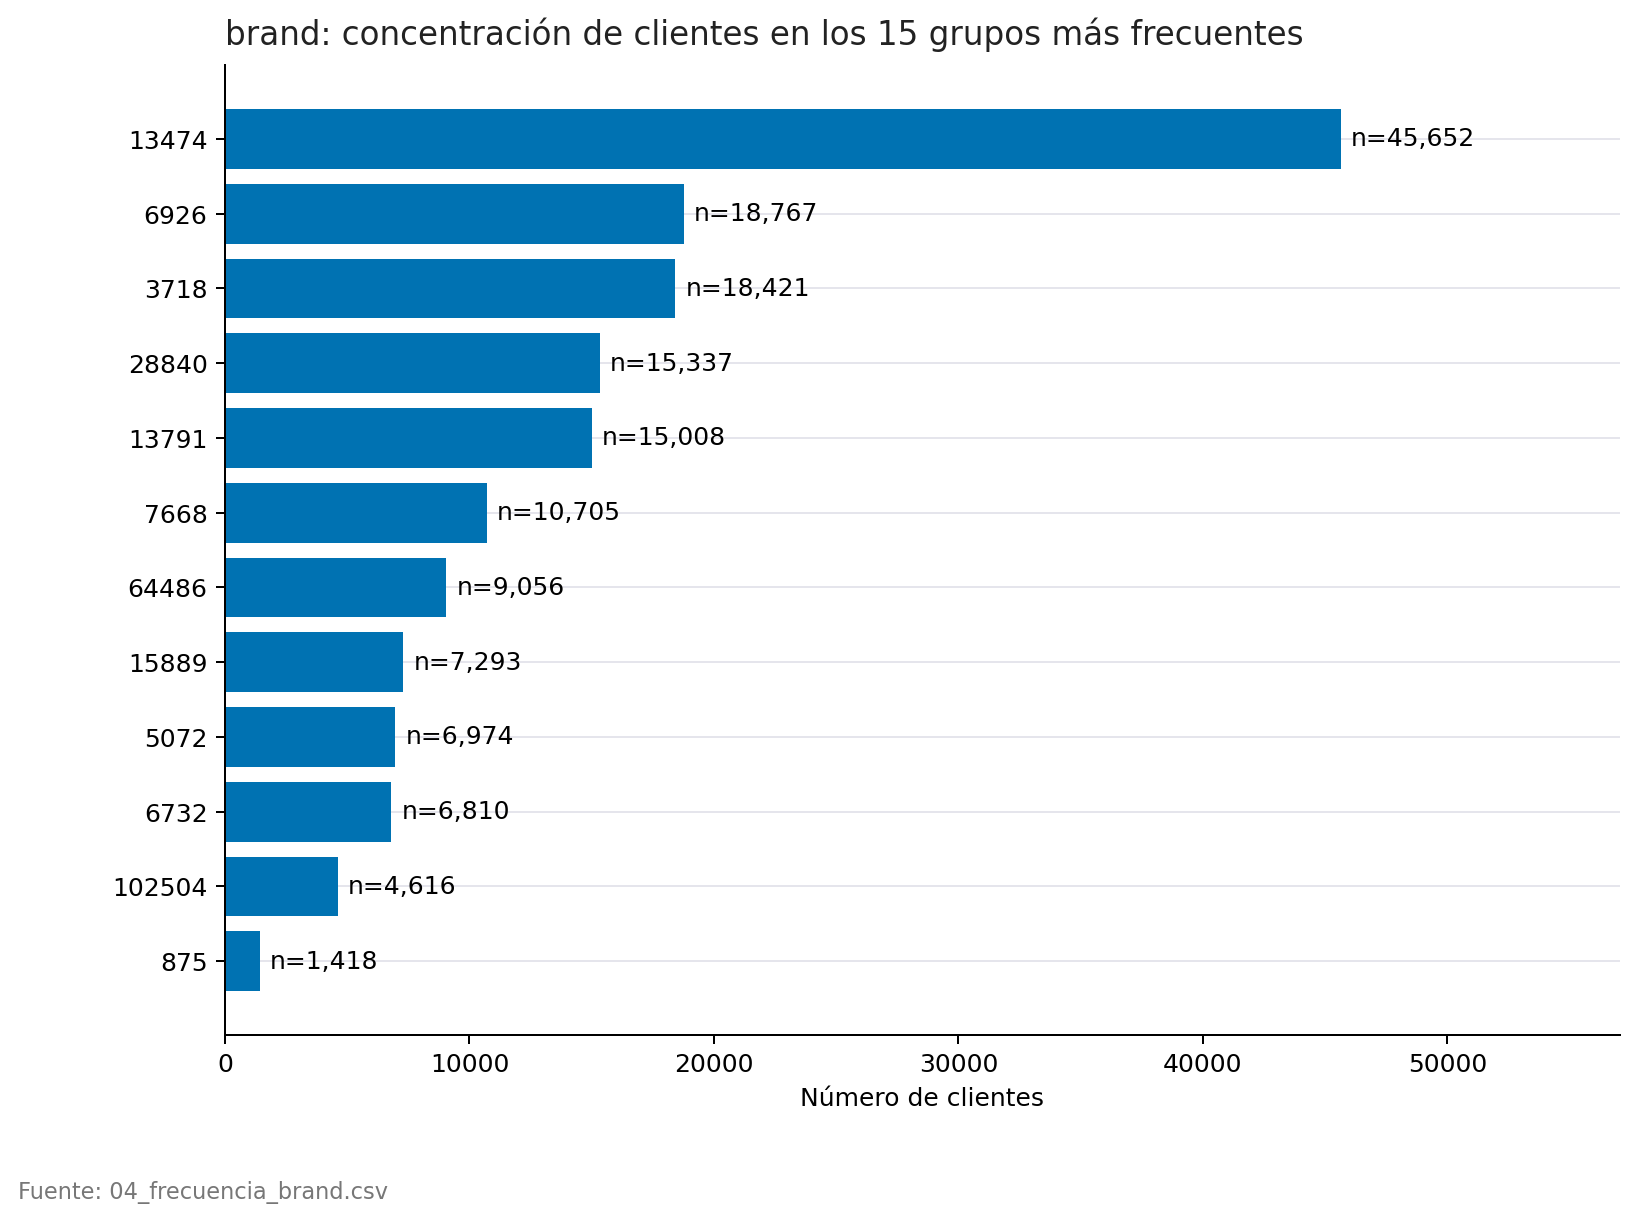
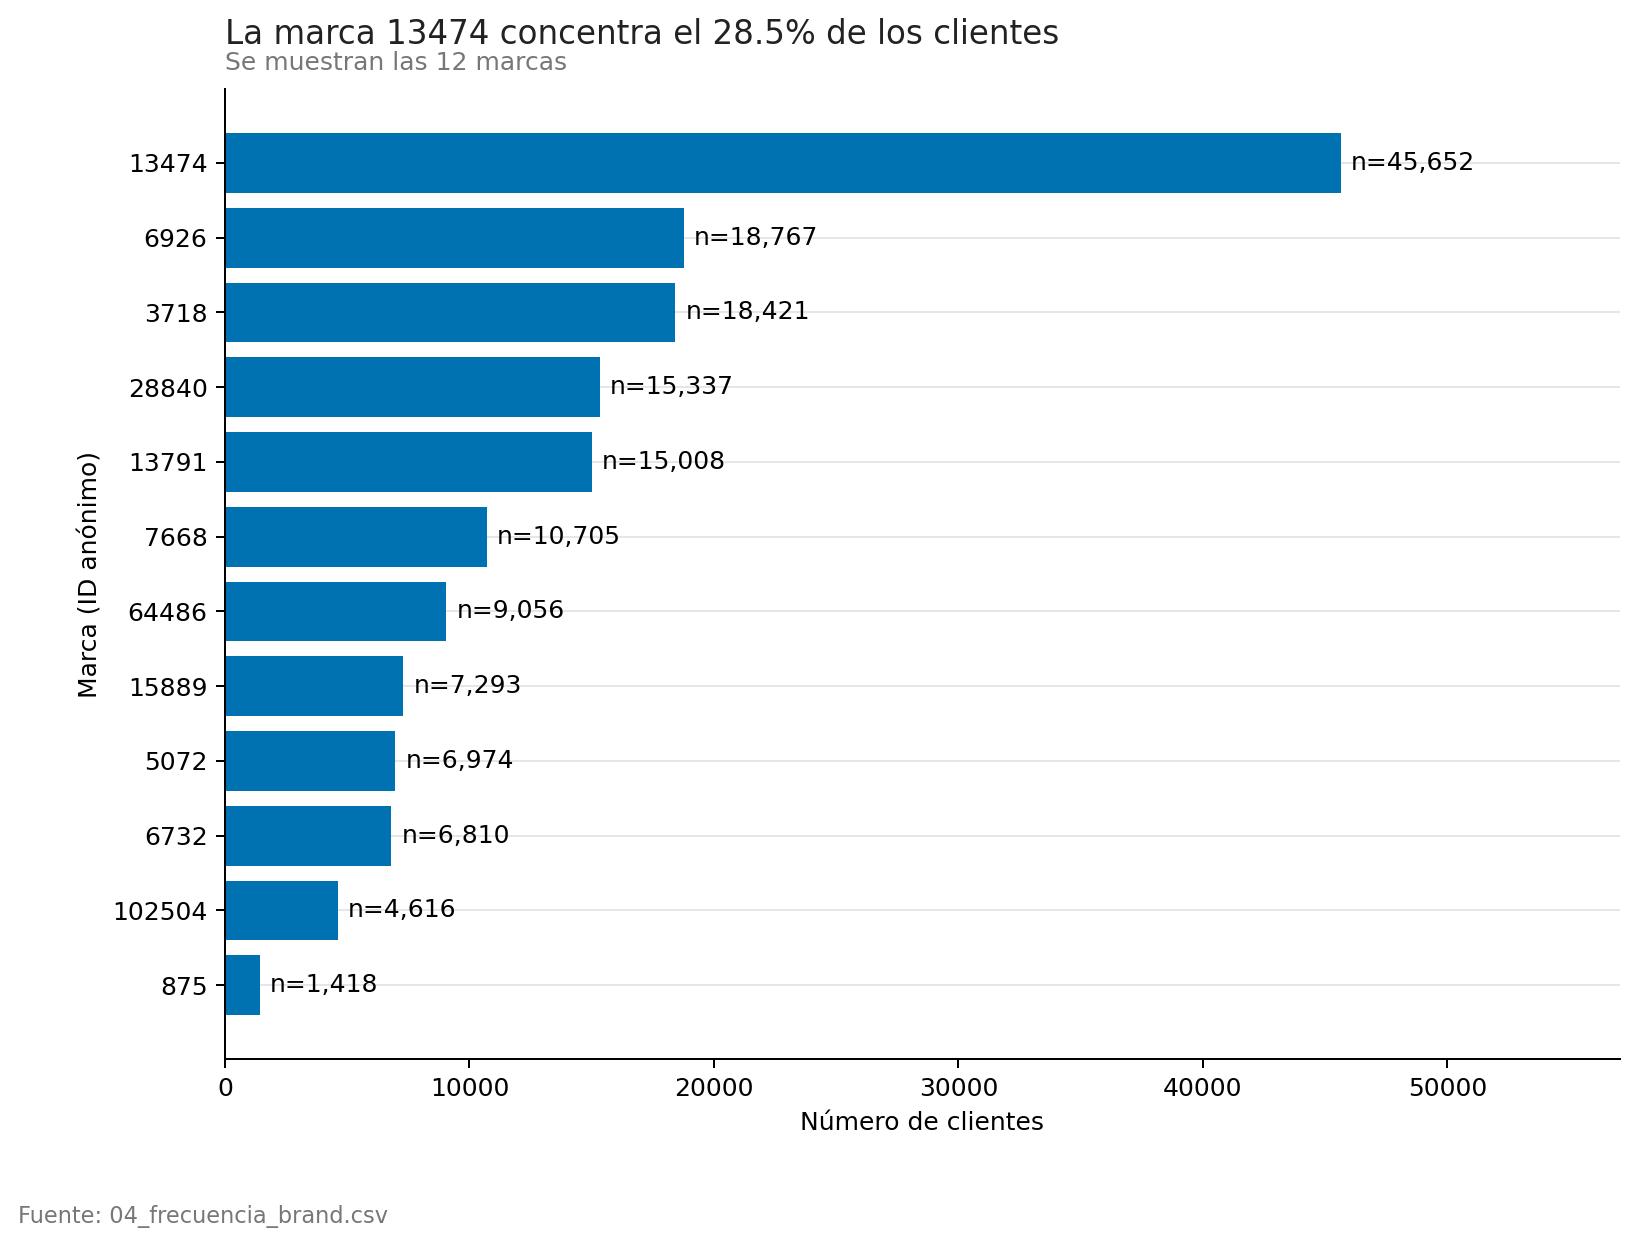
[UPDATE] figuras del EDA categorico ordenadas y con titulos de conclusion

diff --git a/app/rehacer_figuras_eda.py b/app/rehacer_figuras_eda.py
@@ -15,34 +15,62 @@ RAIZ = Path(__file__).resolve().parents[1]
 sys.path.insert(0, str(RAIZ / "src"))
 from estilo_graficos import AZUL, BERMELLON, GRIS, estilo_matplotlib
 
+NOMBRES = {"chain": "cadena", "category": "categoría", "brand": "marca", "company": "compañía", "market": "mercado"}
+PLURALES = {"chain": "cadenas", "category": "categorías", "brand": "marcas", "company": "compañías", "market": "mercados"}
+# Los rangos de descuento tienen orden propio: se grafican de menor a mayor valor, no por tasa.
+ORDEN_OFERTA = ["<= 1.00", "1.00–1.50", "1.50–2.00", "> 2.00"]
+ETIQUETAS_OFERTA = {"<= 1.00": "Hasta 1.00", "1.00–1.50": "1.00 a 1.50", "1.50–2.00": "1.50 a 2.00", "> 2.00": "Más de 2.00"}
+
 def main():
     tablas = RAIZ / "results/tables"
     figuras = RAIZ / "results/figures"
     global_ = pd.read_csv(RAIZ / "data/processed/dataset_modelo.csv", usecols=["repeater"]).repeater.mean()
     for dimension in ["chain", "category", "brand", "company", "market"]:
-        tabla = pd.read_csv(tablas / f"04_frecuencia_{dimension}.csv").nlargest(15, "frecuencia").sort_values("frecuencia")
+        completa = pd.read_csv(tablas / f"04_frecuencia_{dimension}.csv")
+        tabla = completa.nlargest(15, "frecuencia").sort_values("frecuencia")
+        fila_mayor = completa.frecuencia.idxmax()
+        grupo_mayor, proporcion_mayor = completa.grupo.loc[fila_mayor], completa.proporcion.loc[fila_mayor]
         fig, ax = plt.subplots(figsize=(10, 7))
         ax.barh(tabla.grupo.astype(str), tabla.frecuencia, color=AZUL)
         ax.bar_label(ax.containers[0], labels=[f"n={n:,}" for n in tabla.frecuencia], padding=4)
         ax.set_xlim(0, tabla.frecuencia.max()*1.25)
         ax.set_xlabel("Número de clientes")
-        estilo_matplotlib(ax, f"{dimension}: concentración de clientes en los 15 grupos más frecuentes", fuente=f"04_frecuencia_{dimension}.csv")
+        ax.set_ylabel(f"{NOMBRES[dimension].capitalize()} (ID anónimo)")
+        alcance = (f"las {len(tabla)} {PLURALES[dimension]} con más clientes, de {len(completa)}"
+                   if len(completa) > len(tabla) else f"las {len(completa)} {PLURALES[dimension]}")
+        estilo_matplotlib(ax, f"La {NOMBRES[dimension]} {grupo_mayor} concentra el {proporcion_mayor:.1%} de los clientes",
+                          subtitulo=f"Se muestran {alcance}", fuente=f"04_frecuencia_{dimension}.csv")
         fig.savefig(figuras / f"04_frecuencia_{dimension}.png", dpi=180, bbox_inches="tight")
         plt.close(fig)
     for dimension in ["chain", "category", "offervalue"]:
-        tabla = pd.read_csv(tablas / f"04_tasa_recompra_{dimension}.csv").nlargest(15, "n").sort_values("tasa_recompra")
-        fig, ax = plt.subplots(figsize=(11, 7))
+        completa = pd.read_csv(tablas / f"04_tasa_recompra_{dimension}.csv")
+        if dimension == "offervalue":
+            tabla = completa.set_index("grupo").loc[ORDEN_OFERTA].reset_index()
+            nombres = [ETIQUETAS_OFERTA[g] for g in tabla.grupo]
+            titulo = (f"La recompra va de {tabla.tasa_recompra.min():.0%} a {tabla.tasa_recompra.max():.0%} "
+                      "según el valor del descuento")
+            alcance = "los cuatro rangos de descuento, en orden de valor"
+        else:
+            tabla = completa.nlargest(15, "n").sort_values("tasa_recompra")
+            nombres = tabla.grupo.astype(str).tolist()
+            titulo = (f"La recompra va de {tabla.tasa_recompra.min():.0%} a {tabla.tasa_recompra.max():.0%} "
+                      f"entre las {PLURALES[dimension]}")
+            alcance = (f"las {len(tabla)} {PLURALES[dimension]} con más clientes, de {len(completa)}, ordenadas por tasa"
+                       if len(completa) > len(tabla) else f"las {len(completa)} {PLURALES[dimension]}, ordenadas por tasa")
+        fig, ax = plt.subplots(figsize=(12, 7))
         posiciones = range(len(tabla))
         colores = [BERMELLON if t == tabla.tasa_recompra.max() else AZUL for t in tabla.tasa_recompra]
         ax.bar(posiciones, tabla.tasa_recompra*100, color=colores)
-        ax.set_xticks(list(posiciones), tabla.grupo.astype(str), rotation=30)
-        ax.bar_label(ax.containers[0], labels=[f"{r.tasa_recompra:.1%}\nn={r.n:,.0f}" for r in tabla.itertuples()], padding=5, fontsize=8)
+        # El tamaño de cada grupo va bajo su etiqueta, para que no se encime con la tasa
+        ax.set_xticks(list(posiciones), [f"{g}\nn={r.n:,.0f}" for g, r in zip(nombres, tabla.itertuples())], fontsize=8)
+        ax.bar_label(ax.containers[0], labels=[f"{r.tasa_recompra:.1%}" for r in tabla.itertuples()], padding=4, fontsize=9)
         ax.axhline(global_*100, color=GRIS, linestyle="--", label=f"Global: {global_:.2%}")
         ax.set_ylim(0, max(tabla.tasa_recompra.max(), global_)*135)
         ax.set_ylabel("Clientes que recompran (%)")
-        ax.set_xlabel({"chain": "Cadena (ID anónimo)", "category": "Categoría (ID anónimo)", "offervalue": "Valor del descuento (unidades monetarias)"}[dimension])
+        ax.set_xlabel({"chain": "Cadena (ID anónimo) y número de clientes", "category": "Categoría (ID anónimo) y número de clientes",
+                       "offervalue": "Valor del descuento en dólares y número de clientes"}[dimension])
         ax.legend(loc="upper left")
-        estilo_matplotlib(ax, "La recompra cambia entre grupos; el tamaño acompaña cada tasa", fuente=f"04_tasa_recompra_{dimension}.csv · top 15 por tamaño")
+        estilo_matplotlib(ax, titulo, subtitulo=f"Se muestran {alcance}", fuente=f"04_tasa_recompra_{dimension}.csv")
         fig.savefig(figuras / f"04_tasa_recompra_{dimension}.png", dpi=180, bbox_inches="tight")
         plt.close(fig)
     # La matriz de correlación no representa tasas: su escala debe conservar el signo.
